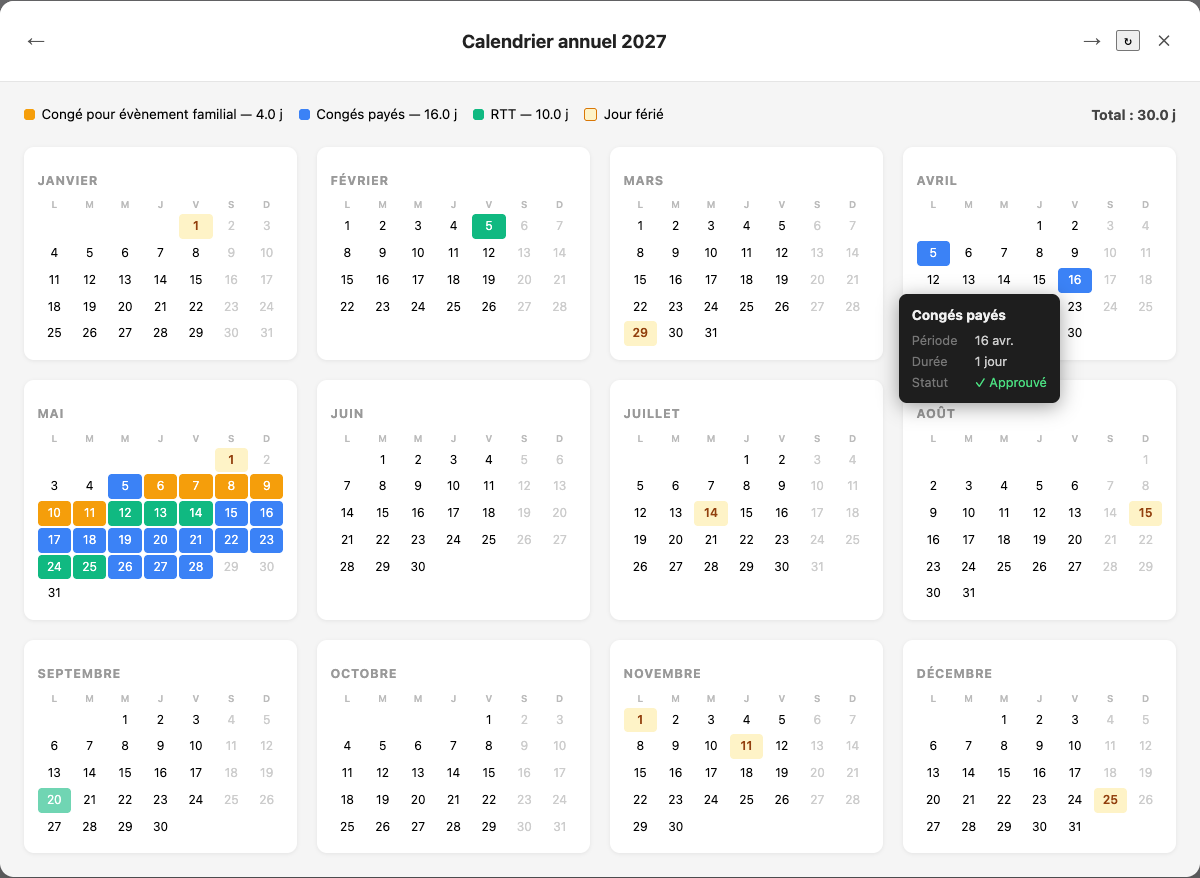
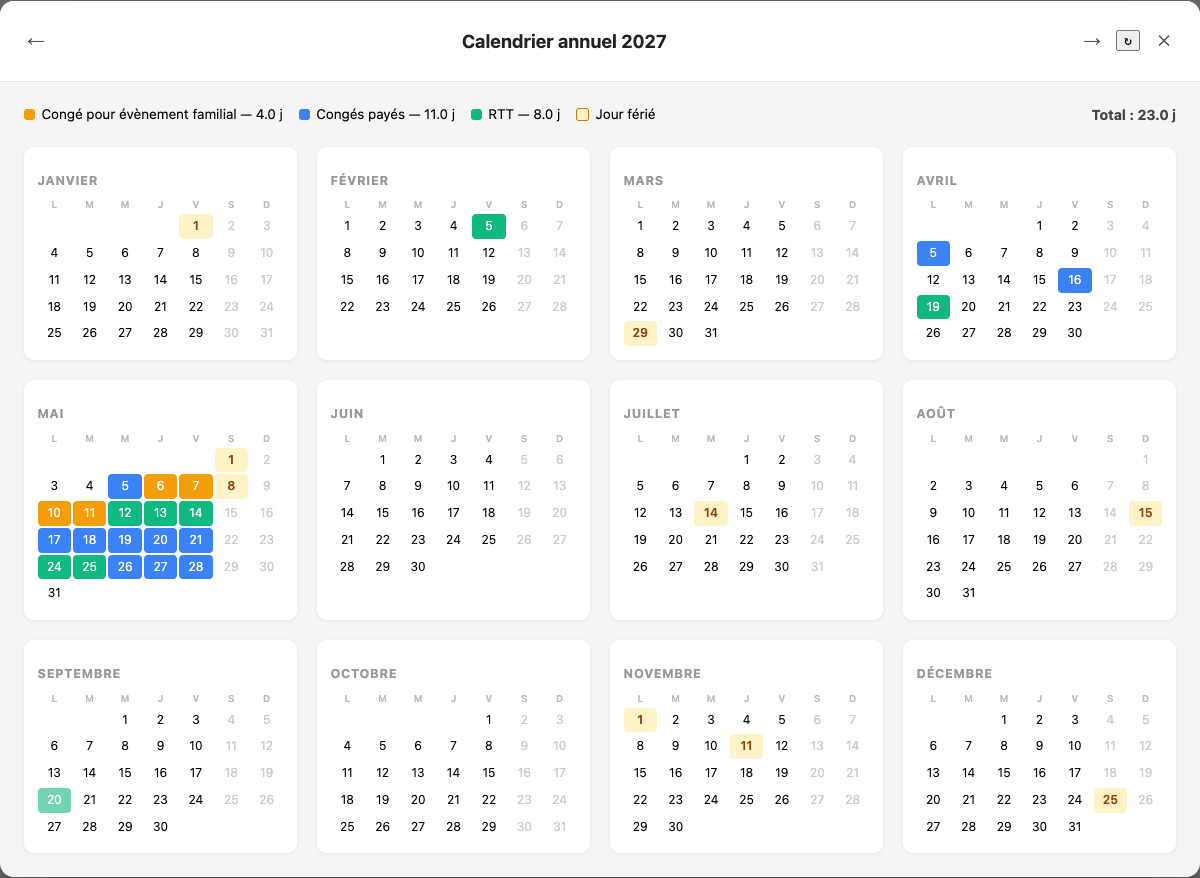
fix: filter leave requests by year and count working days only
The API ignores `start`/`end`, so every request of every year came back
and legend totals mixed years. Use the overlap filter instead
(`endDate__gte` / `startDate__lte`).

Weekends inside a request were colored as leave, and durations relied on
a hardcoded 468-minute day. Read `numDays` (weekends excluded) and skip
Saturdays and Sundays when expanding a request to days. Totals only count
days inside the displayed year: a request spanning New Year splits its
`numDays` by the share of its weekdays in each year.

Closes #1, closes #2, closes #3

diff --git a/test/calendar.test.js b/test/calendar.test.js
@@ -1,10 +1,10 @@
 import { test } from 'node:test';
 import assert from 'node:assert/strict';
-import { MINUTES_PER_DAY, POLICY_COLORS, expandToDays, totalsByPolicy } from '../src/calendar.js';
+import { POLICY_COLORS, expandToDays, totalsByPolicy } from '../src/calendar.js';
 
 const req = (over) => ({
   startDate: '2026-03-02', endDate: '2026-03-02', status: 'APPROVED',
-  policyDisplayName: 'Congés payés', numMinutes: String(MINUTES_PER_DAY), reasonForLeave: '',
+  policyDisplayName: 'Congés payés', numDays: '1.00', reasonForLeave: '',
   ...over,
 });
 
@@ -14,10 +14,17 @@ test('single day request maps to one day', () => {
   assert.equal(days['2026-03-02'].days, 1);
 });
 
-test('multi-day request covers every calendar day, weekends included', () => {
-  const { days } = expandToDays([req({ startDate: '2026-03-06', endDate: '2026-03-09', numMinutes: 2 * MINUTES_PER_DAY })]);
-  assert.deepEqual(Object.keys(days), ['2026-03-06', '2026-03-07', '2026-03-08', '2026-03-09']);
-  assert.equal(days['2026-03-07'].days, 2);
+test('multi-day request covers working days only, weekends excluded', () => {
+  const { days } = expandToDays([req({ startDate: '2026-03-06', endDate: '2026-03-09', numDays: '2.00' })]);
+  assert.deepEqual(Object.keys(days), ['2026-03-06', '2026-03-09']);
+  assert.equal(days['2026-03-09'].days, 2);
+});
+
+test('duration comes from numDays', () => {
+  // Saturday to next Sunday: 9 calendar days, 5 working days.
+  const { days } = expandToDays([req({ startDate: '2026-03-07', endDate: '2026-03-15', numDays: '5.00' })]);
+  assert.equal(Object.keys(days).length, 5);
+  assert.equal(days['2026-03-10'].days, 5);
 });
 
 test('only APPROVED and PENDING are shown', () => {
@@ -30,7 +37,7 @@ test('only APPROVED and PENDING are shown', () => {
 });
 
 test('request spanning new year keeps all days', () => {
-  const { days } = expandToDays([req({ startDate: '2025-12-30', endDate: '2026-01-02' })]);
+  const { days } = expandToDays([req({ startDate: '2025-12-30', endDate: '2026-01-02', numDays: '4.00' })]);
   assert.deepEqual(Object.keys(days), ['2025-12-30', '2025-12-31', '2026-01-01', '2026-01-02']);
 });
 
@@ -49,10 +56,26 @@ test('missing policy name falls back to ??', () => {
 
 test('totals sum counted requests per policy in days', () => {
   const totals = totalsByPolicy([
-    req({ numMinutes: MINUTES_PER_DAY }),
-    req({ numMinutes: MINUTES_PER_DAY / 2 }),
-    req({ numMinutes: MINUTES_PER_DAY, policyDisplayName: 'RTT' }),
-    req({ numMinutes: MINUTES_PER_DAY, status: 'REJECTED' }),
-  ]);
+    req({ numDays: '1.00' }),
+    req({ numDays: '0.50' }),
+    req({ numDays: '1.00', policyDisplayName: 'RTT' }),
+    req({ numDays: '1.00', status: 'REJECTED' }),
+  ], 2026);
   assert.deepEqual(totals, { 'Congés payés': 1.5, RTT: 1 });
+});
+
+test('totals only count days inside the year', () => {
+  const totals = (year) => totalsByPolicy([
+    req({ startDate: '2025-06-01', endDate: '2025-06-01' }),
+    req({ startDate: '2027-06-01', endDate: '2027-06-01' }),
+    req({ startDate: '2026-06-01', endDate: '2026-06-01' }),
+  ], year);
+  assert.deepEqual(totals(2026), { 'Congés payés': 1 });
+});
+
+test('request spanning new year splits its days between both years', () => {
+  // Tue 2025-12-30 to Mon 2026-01-05: 2 working days in 2025, 3 in 2026.
+  const r = req({ startDate: '2025-12-30', endDate: '2026-01-05', numDays: '5.00' });
+  assert.deepEqual(totalsByPolicy([r], 2025), { 'Congés payés': 2 });
+  assert.deepEqual(totalsByPolicy([r], 2026), { 'Congés payés': 3 });
 });

diff --git a/src/calendar.js b/src/calendar.js
@@ -8,14 +8,25 @@ export const POLICY_COLORS = [
 // Statuses shown on the calendar and counted in totals.
 export const COUNTED_STATUSES = ['APPROVED', 'PENDING'];
 
-// Assumed length of a working day in `numMinutes` (7.8 h).
-export const MINUTES_PER_DAY = 468;
-
 function policyName(r) {
   return r.policyDisplayName || '??';
 }
 
-// Maps each day of every counted request to its absence info.
+// Weekdays (Mon-Fri) from startDate to endDate, inclusive, as Date objects.
+// Rippling's `numDays` excludes weekends, so the calendar does too.
+function workingDays(r) {
+  const out = [];
+  const end = new Date(r.endDate + 'T00:00:00');
+  const maxDays = 365;
+  let iter = 0;
+  for (const d = new Date(r.startDate + 'T00:00:00'); d <= end && iter < maxDays; d.setDate(d.getDate() + 1), iter++) {
+    const wd = d.getDay();
+    if (wd !== 0 && wd !== 6) out.push(new Date(d));
+  }
+  return out;
+}
+
+// Maps each working day of every counted request to its absence info.
 // Returns { days: { 'YYYY-MM-DD': info }, policies: { name: colorIdx } }.
 export function expandToDays(requests) {
   const policies = {};
@@ -26,30 +37,30 @@ export function expandToDays(requests) {
   }
   for (const r of requests) {
     if (!COUNTED_STATUSES.includes(r.status)) continue;
-    const start = new Date(r.startDate + 'T00:00:00');
-    const end   = new Date(r.endDate   + 'T00:00:00');
     const policy = policyName(r);
-    const daysCount = Math.round(parseFloat(r.numMinutes || 0) / MINUTES_PER_DAY);
-    const maxDays = 365;
-    let iter = 0;
-    for (const d = new Date(start); d <= end && iter < maxDays; d.setDate(d.getDate() + 1), iter++) {
+    for (const d of workingDays(r)) {
       days[isoLocal(d)] = {
         policy, reason: r.reasonForLeave || '', status: r.status,
         colorIdx: policies[policy], start: r.startDate,
-        end: r.endDate, days: daysCount,
+        end: r.endDate, days: parseFloat(r.numDays || 0),
       };
     }
   }
   return { days, policies };
 }
 
-// Total days per policy for counted requests.
-export function totalsByPolicy(requests) {
+// Total days per policy for counted requests, within `year`. A request
+// spanning New Year splits its `numDays` by the share of its working days
+// that fall in `year`.
+export function totalsByPolicy(requests, year) {
   const byPolicy = {};
   for (const r of requests) {
     if (!COUNTED_STATUSES.includes(r.status)) continue;
+    const wds = workingDays(r);
+    if (!wds.length) continue;
+    const inYear = wds.filter(d => d.getFullYear() === year).length;
     const p = policyName(r);
-    byPolicy[p] = (byPolicy[p] || 0) + parseFloat(r.numMinutes || 0) / MINUTES_PER_DAY;
+    byPolicy[p] = (byPolicy[p] || 0) + parseFloat(r.numDays || 0) * inYear / wds.length;
   }
   return byPolicy;
 }

diff --git a/test/render.test.js b/test/render.test.js
@@ -4,7 +4,7 @@ import { buildCalendarHTML, esc, fmtShort } from '../src/render.js';
 
 const req = (over) => ({
   startDate: '2026-03-02', endDate: '2026-03-02', status: 'APPROVED',
-  policyDisplayName: 'Congés payés', numMinutes: '468', reasonForLeave: '',
+  policyDisplayName: 'Congés payés', numDays: '1.00', reasonForLeave: '',
   ...over,
 });
 
@@ -39,7 +39,7 @@ test('escapes user content', () => {
 });
 
 test('legend shows per policy and total days', () => {
-  const html = buildCalendarHTML(2026, [req(), req({ policyDisplayName: 'RTT', numMinutes: '234' })], {}, '2026-01-01');
+  const html = buildCalendarHTML(2026, [req(), req({ policyDisplayName: 'RTT', numDays: '0.50' })], {}, '2026-01-01');
   assert.ok(html.includes('Congés payés — 1.0 j'));
   assert.ok(html.includes('RTT — 0.5 j'));
   assert.ok(html.includes('Total : 1.5 j'));

diff --git a/src/api.js b/src/api.js
@@ -17,8 +17,9 @@ export function apiHeaders() {
 
 export async function fetchLeaveRequestsRaw(year) {
   const roleId = localStorage.getItem('role_id');
+  // Requests overlapping the year; `start`/`end` are ignored by the API.
   const url = `/api/pto/api/leave_requests/?role=${roleId}&limit=200`
-            + `&start=${year}-01-01&end=${year}-12-31`;
+            + `&endDate__gte=${year}-01-01&startDate__lte=${year}-12-31`;
   const r = await fetch(url, { headers: apiHeaders() });
   return r.json();
 }

diff --git a/src/render.js b/src/render.js
@@ -63,7 +63,7 @@ export function renderMonth(year, month, absentDays, holidays, todayStr) {
 
 export function buildCalendarHTML(year, requests, holidays, today = isoLocal(new Date())) {
   const { days: absentDays, policies } = expandToDays(requests);
-  const byPolicy = totalsByPolicy(requests);
+  const byPolicy = totalsByPolicy(requests, year);
   const total = Object.values(byPolicy).reduce((a, b) => a + b, 0);
 
   let legend = Object.entries(policies)

diff --git a/src/schema.js b/src/schema.js
@@ -10,7 +10,7 @@ export const LEAVE_REQUEST_FIELDS = {
   endDate: 'date',
   status: 'string',
   policyDisplayName: 'string',
-  numMinutes: 'numeric',
+  numDays: 'numeric',
   reasonForLeave: 'string?',
 };
 

diff --git a/docs/api/leave-requests.md b/docs/api/leave-requests.md
@@ -17,13 +17,15 @@ Source of every fact below: **capture 2026-10-01** (one employee account, 24 req
 
 Ignored params, silently (full list returned): `start`, `end`, `offset`, `ordering`, `cursor`. `page=1` returns everything, `page=2` returns `[]`.
 
-Script v1.2 sends `start`/`end` (**code**), so it gets every request of every year, capped at 200. To get the requests of year `Y` that overlap the year:
+Script v1.2 sent `start`/`end`, so it got every request of every year, capped at 200. The script now asks for the requests that overlap year `Y` (**code**):
 
 ```
-?role=<role_id>&endDate__gte=Y-01-01&startDate__lte=Y-12-31
+?role=<role_id>&limit=200&endDate__gte=Y-01-01&startDate__lte=Y-12-31
 ```
 
 Checked: with `D` the middle day of a 3-day request, `endDate__gte=D&startDate__lte=D` returns that request.
+
+Checked on the whole account (capture 2026-10-01, 24 requests): for years 2025 to 2027, the overlap filter returns exactly the requests overlapping the year; `start`/`end` return all 24 for every year.
 
 No pagination headers: `count`, `Link`, `X-Next-Cursor` are listed in `Access-Control-Expose-Headers` but absent from responses.
 
@@ -41,14 +43,14 @@ Fields the script reads (declared in `src/schema.js`):
 | `endDate` | `YYYY-MM-DD` | last day, inclusive |
 | `status` | enum | seen: `APPROVED`, `PENDING`, `CANCELED`. Script shows `APPROVED` and `PENDING`. |
 | `policyDisplayName` | string | e.g. `Congés payés`, `RTT` |
-| `numMinutes` | numeric string | `"468.00"` per full day |
+| `numDays` | numeric string | working days of the request: weekends excluded (a Saturday-to-next-Sunday request, 9 calendar days → `"5.00"`). Equal to the weekday count on all 24 requests of the capture; none contains a weekday holiday. Shown as the duration; totals of a request spanning New Year are split by the share of its weekdays in each year. |
 | `reasonForLeave` | string or null | free text |
 
 Other fields worth knowing:
 
 | Field | Type | Notes |
 |---|---|---|
-| `numDays` | numeric string | working days of the request: weekends excluded (a Saturday-to-next-Sunday request, 9 calendar days → `"5.00"`). Equal to `numMinutes / 468` on every capture. |
+| `numMinutes` | numeric string | `"468.00"` per full day. Equal to `numDays × 468` on every capture. |
 | `numHours` | numeric string | `numDays × 7.80` |
 | `startDateHalfDay`, `endDateHalfDay` | boolean | half day on first/last day. Always `false` in capture. |
 | `startDateMinutes`, `endDateMinutes`, `startDateCustomHours`, `endDateCustomHours` | numeric string | `0.00` or a full day (`468.00` / `7.80`); meaning unclear |
@@ -65,13 +67,13 @@ A canceled request and its replacement share the same dates: duplicates by date 
 
 ## Day length: `get_avg_hours_in_day`
 
-`POST /api/pto/api/get_avg_hours_in_day/` (read-only) returns a JSON string, `"7.80"` here. `468` in the script is `7.80 × 60`. The Time Off page calls it on load. Body sent by the script tests: `{ "role": "<role_id>" }`.
+`POST /api/pto/api/get_avg_hours_in_day/` (read-only) returns a JSON string, `"7.80"` here. Script v1.2 hardcoded `468` (`7.80 × 60`) to turn `numMinutes` into days; the script now reads `numDays` and does not call this endpoint. The Time Off page calls it on load. Body sent by the script tests: `{ "role": "<role_id>" }`.
 
-## Known gaps in script v1.2
+## Known gaps
 
-- More than 200 requests in total: older ones are dropped, since `start`/`end` do not filter.
-- Weekends inside a request are colored as leave; `numDays` excludes them.
-- Day count uses a hardcoded `468`; `numDays` gives it directly.
+- More than 200 requests overlapping one year would be truncated: the script does not paginate.
+- Public holidays inside a request are colored as leave. Whether `numDays` excludes them is an open question.
+- Half days are colored as full days.
 
 ## Open questions
 

diff --git a/docs/api/README.md b/docs/api/README.md
@@ -11,7 +11,7 @@ Each fact carries a source:
 |---|---|---|
 | `GET /api/pto/api/leave_requests/` | leave requests of a year | [leave-requests.md](leave-requests.md) |
 | `POST /api/pto/api/get_holiday_calendar/` | public holidays | [holiday-calendar.md](holiday-calendar.md) |
-| `POST /api/pto/api/get_avg_hours_in_day/` | length of a day (not used yet) | [leave-requests.md](leave-requests.md#day-length-get_avg_hours_in_day) |
+| `POST /api/pto/api/get_avg_hours_in_day/` | length of a day (not used) | [leave-requests.md](leave-requests.md#day-length-get_avg_hours_in_day) |
 
 Seen on the Time Off page load but not studied (capture 2026-10-01): `GET /api/pto/api/data/get_pto_summary_v2/?includeLongTerm=true&includeUnfulfilledPaidOut=false&role=<role_id>` (about 50 KB, content not inspected), `POST /api/pto/api/leave_policies/get_eligible_policies/`, `POST /api/pto/api/time_off_settings/`, `GET /api/pto/api/get_fixed_company_leave_types/`. The Time Off page itself does not call `leave_requests`.
 

diff --git a/docs/reverse-engineering.md b/docs/reverse-engineering.md
@@ -38,7 +38,7 @@ const h = {
   requestedAccessLevel: 'EE',
 };
 const role = localStorage.getItem('role_id');
-await (await fetch(`/api/pto/api/leave_requests/?role=${role}&limit=200&start=2026-01-01&end=2026-12-31`, { headers: h })).json();
+await (await fetch(`/api/pto/api/leave_requests/?role=${role}&limit=200&endDate__gte=2026-01-01&startDate__lte=2026-12-31`, { headers: h })).json();
 ```
 
 Vary one parameter at a time (dates, `limit`, `offset`, a removed header) to learn its effect.
